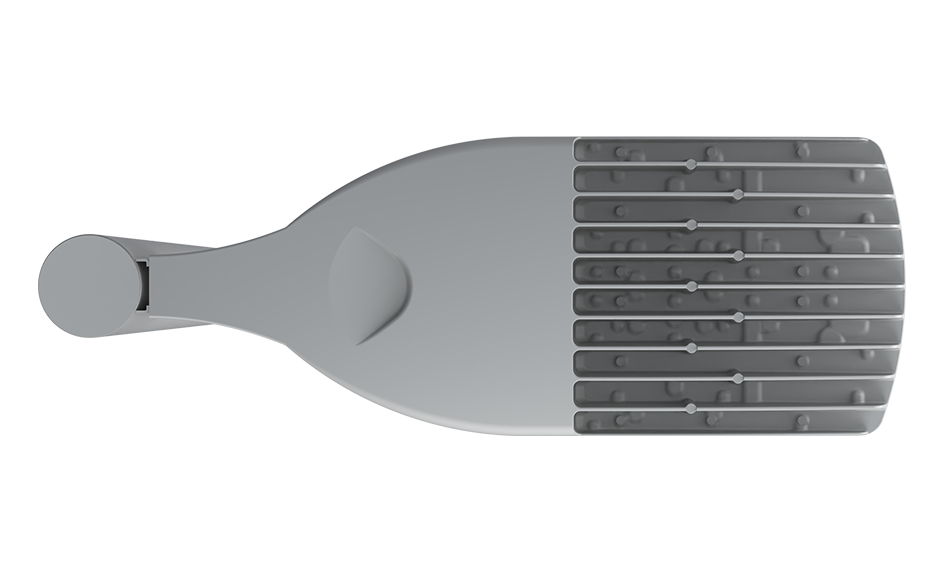
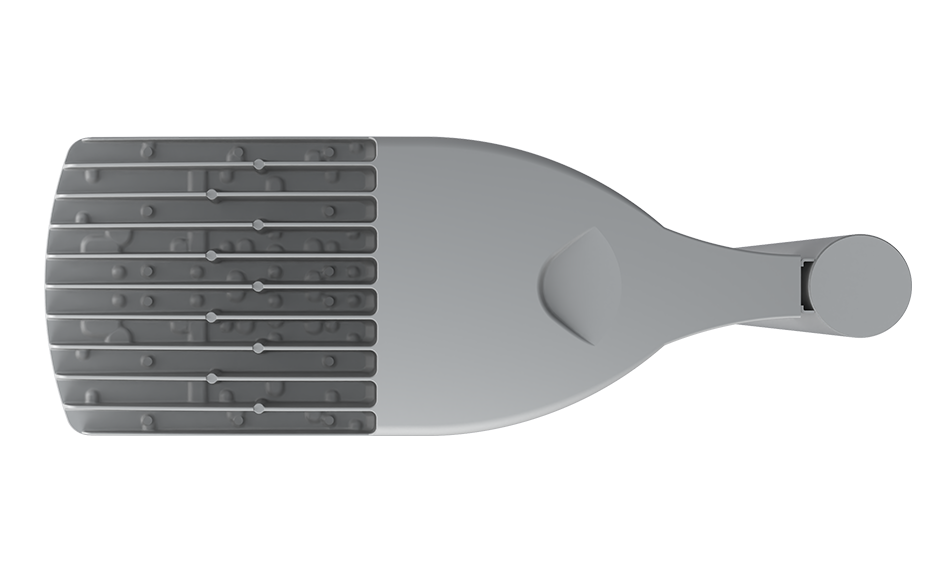
Flip D-Series to face left, simplify R/S-Line IK rating, align product card links
- Flip all D-Series (DSX0/1/2) profile, angle, underside and front photos
  horizontally so the fixture faces left, matching Denver iD Pole, R-Line
  and S-Line's consistent orientation.
- Simplify R-Line/S-Line's IK rating across badges, key specs and
  certifications to "IK10 (Glass Lens)" per updated guidance.
- Make product card bodies a flex column with the "View technical data"
  link pinned to the bottom, so it lines up across cards regardless of
  how many lines the spec chips wrap to.

Claude-Session: https://claude.ai/code/session_01R4sWaaqKu1iVMbbzze3tzg

diff --git a/assets/css/components.css b/assets/css/components.css
@@ -466,7 +466,8 @@
 }
 
 .product-card {
-  display: block;
+  display: flex;
+  flex-direction: column;
   text-decoration: none;
   color: inherit;
   background: var(--bg-surface);
@@ -577,6 +578,9 @@
 
 .product-card__body {
   padding: var(--space-4);
+  display: flex;
+  flex-direction: column;
+  flex: 1;
 }
 
 .product-card__cat {
@@ -610,7 +614,8 @@
 }
 
 .product-card__link {
-  margin-top: var(--space-4);
+  margin-top: auto;
+  padding-top: var(--space-4);
   display: flex;
   align-items: center;
   gap: var(--space-2);
